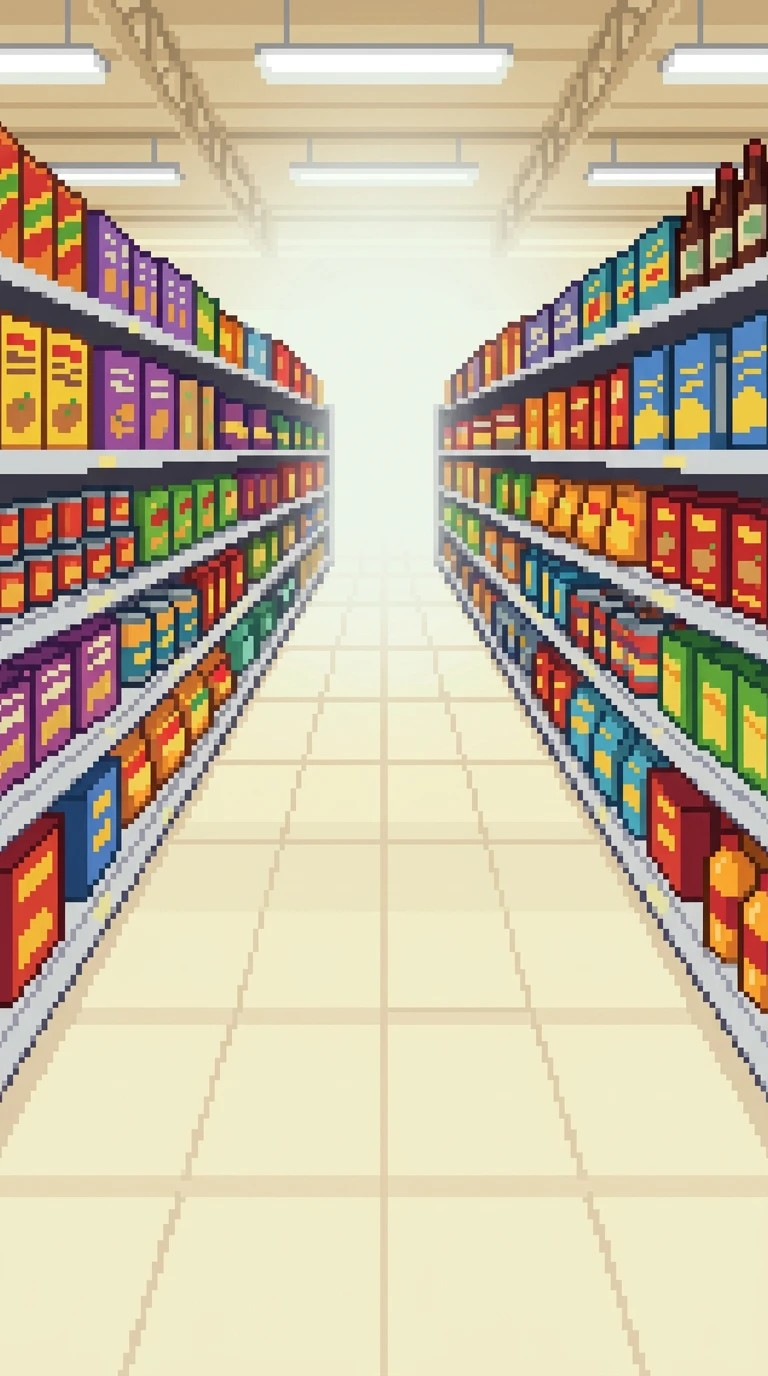
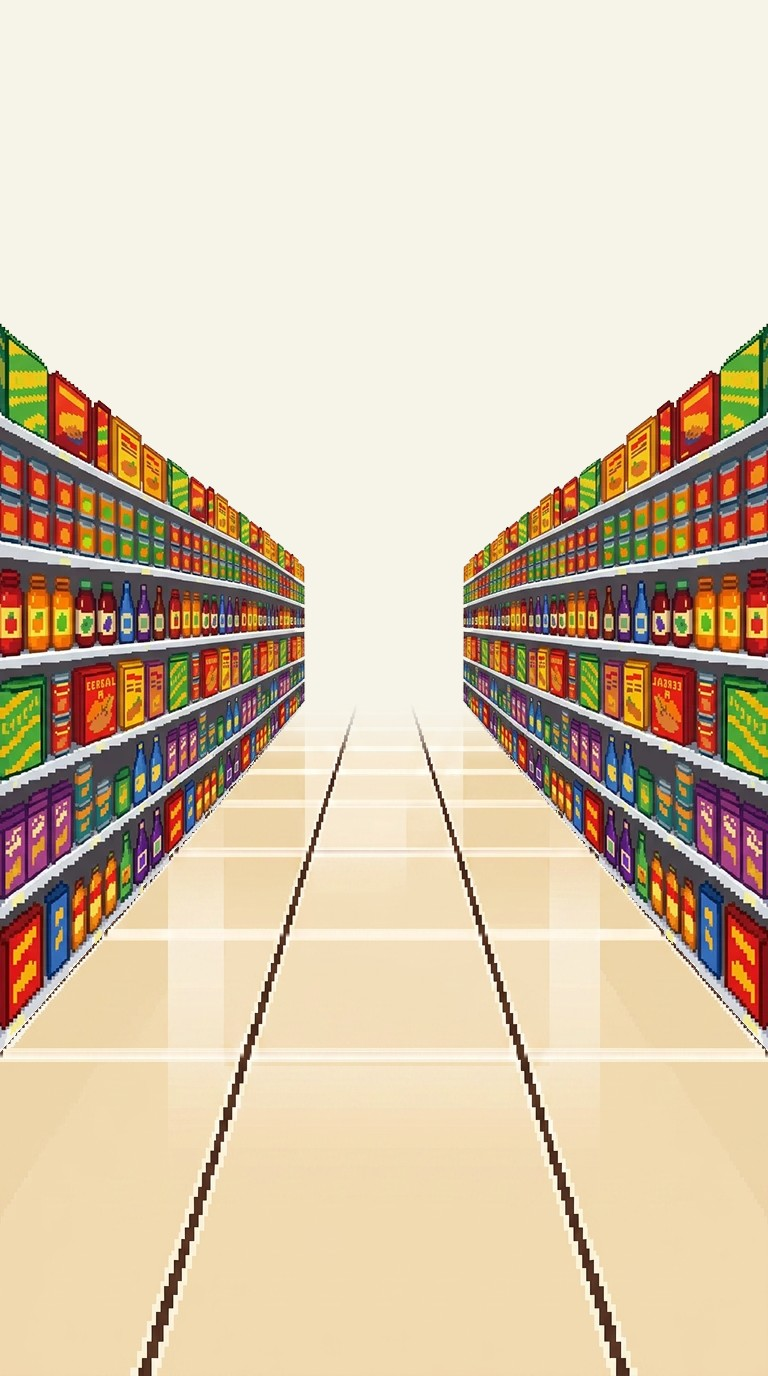
Rebuild the aisle from the tileable floor and shelf plates
Three layers now - floor, shelves over it, cream far end - instead of one
flattened image, and the floor scrolls by a different and better method.

The new floor's tile seams are spaced evenly in depth, which is physically
correct perspective. That rules out the scale-about-the-vanishing-point loop
the previous plate allowed, since that only worked because those seams
happened to be spaced geometrically. So the seams were stripped out of the
art and the game spawns them as travelling entities instead, at 0.30 z units
apart - the plate's own tile spacing measured back into game units. They now
move at exactly the speed everything else does, because they are the same
kind of thing. The painted lane lines stay in the plate and stay put, which
is right: lines running along the aisle do not move as you walk down it.

- Stripped the seams by replacing each band with a blend of the clean rows
  either side, which leaves the vertical lane lines untouched since they sit
  at the same x in the rows being blended in.
- Re-measured the world off the new plate: the vanishing point moved from
  (195, 282.5) to (195, 372.6) and the spread from 0.588 to 0.8635. Z_EXIT
  went to 0.30 so entities still leave below the bottom edge with the
  shallower perspective.
- Rebuilt bg_aisle.jpg from the new plates so the menu screens match.
- Replaced the two-layer scale-scroll and its tests.

Verified in Chromium at 390x844: 44 checks across four suites, including that
[…]

diff --git a/game.js b/game.js
@@ -19,18 +19,18 @@
 
 const STAGE_W = 390, STAGE_H = 844;
 
-// Measured off bg_aisle.jpg after `background-size: cover` into the 390 x 844
-// stage: the shelf bases converge at (195, 282.5), and the aisle's half-width
-// grows by 0.588px for every px below that.
-const HORIZON_Y      = 282.5;
-const AISLE_SPREAD   = 0.588;
+// Measured off the floor plate after `background-size: cover` into the
+// 390 x 844 stage: its lane lines and tile seams converge at (195, 372.6), and
+// the aisle's half-width grows by 0.8635px for every px below that.
+const HORIZON_Y      = 372.6;
+const AISLE_SPREAD   = 0.8635;
 const RUNNER_FEET_Y  = 552;   // his depth; the aisle is ~317px wide here
 const RUNNER_H       = 116;   // so his top edge sits at 436
 const PERSP          = RUNNER_FEET_Y - HORIZON_Y;
 // Three lanes across the aisle at the runner's depth, so the shelves bound them.
 const LANE_X         = Math.round(AISLE_SPREAD * PERSP * 2 / 3);
 const Z_SPAWN        = 4.2;   // just under the vanishing point
-const Z_EXIT         = 0.40;  // past the camera
+const Z_EXIT         = 0.30;  // past the camera, below the bottom edge
 const Z_RUNNER       = 1;
 
 const SPEED_BASE = 2.0;       // z units per second
@@ -66,21 +66,11 @@ const POWERUP_MS   = 6000;
 const OBS_GAP      = [1.7, 2.9];     // z units between obstacles, early
 const OBS_GAP_LATE = [1.25, 2.1];
 const PICKUP_GAP   = [1.1, 2.3];
-const RUNG_GAP     = 0.55;
+const SEAM_GAP     = 0.30;           // the floor plate's own tile spacing, in z
 
 // Sizes are the sprite's size at the runner's depth (z = 1); perspective does the rest.
 // The runner is one file per frame, so a single pose can be redrawn and
 // dropped in on its own. Bump RUNNER_FRAMES if the cycle gains or loses one.
-// The floor plate's tile seams are spaced geometrically below its vanishing
-// point, by this ratio. Scaling the plate by exactly this puts every seam
-// where the next one was, so the loop closes.
-const FLOOR_RATIO = 1.2816;
-// One cycle advances the floor by one tile row, i.e. multiplies depth by
-// FLOOR_RATIO. Entities move through depth linearly, so the two can only agree
-// at one depth; matching them at the runner's own depth puts the tiles under
-// his feet at exactly his speed, which is where the eye judges it.
-const FLOOR_CYCLES_PER_Z = 1 / Math.log(FLOOR_RATIO);
-
 const RUNNER_FRAMES = 8;
 const RUNNER_FRAME_MS = 78;          // ~12.8 fps
 const RUNNER_FRAME_MS_FAST = 52;     // while Tylenol is up
@@ -110,7 +100,7 @@ const CHIP_BAGS = ['chips', 'chipsB', 'chipsG'];
 OBSTACLE_ART.forEach(([n, w, h]) => { SPRITES[n] = { img: n + '.png', w, h }; });
 
 const ASSETS = [
-  'assets/bg_aisle.jpg', 'assets/bg_aisle_floor.png',
+  'assets/bg_aisle.jpg', 'assets/bg_aisle_floor.png', 'assets/bg_aisle_shelves.png',
   'assets/pursuer_run.png',
   'assets/pickup_chips.png', 'assets/pickup_chips_b.png', 'assets/pickup_chips_g.png',
   'assets/chip_drop.png',
@@ -180,7 +170,7 @@ const el = {
   runner: $('runner'), pursuer: $('pursuer'), labelTag: $('labelTag'),
   speedTag: $('speedTag'), vignette: $('vignette'), flash: $('flash'),
   hud: $('hud'), prox: document.querySelector('.prox'), proxFill: $('proxFill'), proxState: $('proxState'),
-  floorA: $('floorA'), floorB: $('floorB'),
+  seams: $('seams'),
   bags: $('bags'), lives: $('lives'), dist: $('dist'), hiSmall: $('hiSmall'),
   delay: $('delay'), delaySecs: $('delaySecs'), delayFill: $('delayFill'),
   pickupFlash: $('pickupFlash'), hints: $('hints'),
@@ -223,7 +213,7 @@ function spawn(kind, opts) {
   } else {
     d.innerHTML = '<i style="background-image:url(assets/' + e.img + ')"></i>';
   }
-  el.world.appendChild(d);
+  (kind === 'rung' ? el.seams : el.world).appendChild(d);
   ents.push(e);
   return e;
 }
@@ -255,7 +245,6 @@ const g = {
   prox: PROX_START, meters: 0, bags: BAGS_START, lost: 0,
   pursuerX: STAGE_W / 2,
   nextObs: 0, nextPickup: 0, nextRung: 0,
-  floorPhase: 0,
   labelAt: 0, labelUntil: 0,
   lives: 0, vaxAt: 0,
   tylAt: 0, powerUntil: 0,
@@ -269,7 +258,7 @@ function resetRun() {
     t: 0, odo: 0, speed: SPEED_BASE, lane: 0, laneX: STAGE_W / 2, invuln: 0,
     prox: PROX_START, meters: 0, bags: BAGS_START, lost: 0, pursuerX: STAGE_W / 2,
     nextObs: 1.2, nextPickup: 2.4, nextRung: 0,
-    floorPhase: 0, labelAt: rand(LABEL_EVERY), labelUntil: 0,
+    labelAt: rand(LABEL_EVERY), labelUntil: 0,
     lives: 0, vaxAt: VAX_FIRST,
     tylAt: TYL_FIRST, powerUntil: 0,
   });
@@ -494,7 +483,6 @@ function step(dt) {
   g.speed = SPEED_BASE + (SPEED_MAX - SPEED_BASE) * Math.min(1, g.t / SPEED_RAMP);
   const eff = g.speed * (power ? 2 : 1);
   g.odo += eff * dt;
-  g.floorPhase = (g.floorPhase + eff * FLOOR_CYCLES_PER_Z * dt) % 1;
   g.meters += eff * dt * METERS_PER_Z;
 
   // ── proximity
@@ -514,8 +502,9 @@ function step(dt) {
 
   // ── scheduled spawns
   if (g.odo >= g.nextRung) {
-    g.nextRung = g.odo + RUNG_GAP;
-    spawn('rung', { w: 300, h: 3, lane: 0 });
+    g.nextRung = g.odo + SEAM_GAP;
+    // Full aisle width at the runner's depth; the perspective does the rest.
+    spawn('rung', { w: AISLE_SPREAD * PERSP * 2, h: 2.2, lane: 0 });
   }
   if (g.odo >= g.nextObs) {
     const gap = g.t > 40 ? OBS_GAP_LATE : OBS_GAP;
@@ -586,18 +575,7 @@ function step(dt) {
   }
 }
 
-// Advance the two floor layers. Phase 0..1 is one tile row.
-function renderFloor(p) {
-  const q = (p + 0.5) % 1;
-  const w = Math.sin(Math.PI * p);
-  el.floorA.style.transform = 'scale(' + Math.pow(FLOOR_RATIO, p).toFixed(4) + ')';
-  el.floorB.style.transform = 'scale(' + Math.pow(FLOOR_RATIO, q).toFixed(4) + ')';
-  el.floorA.style.opacity = (w * w).toFixed(3);
-  el.floorB.style.opacity = (1 - w * w).toFixed(3);
-}
-
 function render(dt) {
-  renderFloor(g.floorPhase);
   // runner — leans into the lane change, which is the only move he has
   const leanX = (STAGE_W / 2 + g.lane * LANE_X) - g.laneX;
   el.runner.style.transform = 'translate(' + (g.laneX - 29).toFixed(1) + 'px, 436px) rotate(' +
@@ -720,7 +698,6 @@ function preload() {
 }
 
 function ready() {
-  renderFloor(0);
   if (document.fonts && document.fonts.ready) document.fonts.ready.then(fit);
   toTitle();
   raf = requestAnimationFrame(frame);

diff --git a/styles.css b/styles.css
@@ -92,10 +92,19 @@ body.framed #bezel {
 
 #field { position: absolute; inset: 0; overflow: hidden; }
 
+/* The aisle in three layers: the lit far end, the floor with its lane lines,
+   and the shelving over the top. The floor's transverse seams were stripped
+   out of the art — they are spawned as travelling entities instead, so they
+   move at exactly the speed everything else does. */
 #floor {
-  position: absolute;
-  inset: 0;
-  background: var(--tunnel-dark) url('assets/bg_aisle.jpg') center / cover no-repeat;
+  position: absolute; inset: 0;
+  background: #F6F3E8 url('assets/bg_aisle_floor.png') center / cover no-repeat;
+}
+#seams { position: absolute; inset: 0; }
+#shelves {
+  position: absolute; inset: 0;
+  background: url('assets/bg_aisle_shelves.png') center / cover no-repeat;
+  pointer-events: none;
 }
 
 /* The aisle is bright at the far end and pale underfoot, so the chrome needs
@@ -111,28 +120,16 @@ body.framed #bezel {
   background: linear-gradient(0deg, rgba(8, 10, 14, .78), rgba(8, 10, 14, 0));
 }
 
-/* The scrolling floor. Two copies of the same plate, half a cycle apart,
-   each scaled about the floor's own vanishing point. Scaling about that point
-   leaves every line through it — the lane lines — exactly where it is, and
-   marches the transverse tile seams toward the camera, which is precisely what
-   moving down the aisle looks like. Their opacities are sin^2 and cos^2 of the
-   same phase, so they sum to 1 and each one is invisible at the moment it
-   jumps back. */
-.floor-scroll {
-  position: absolute; inset: 0;
-  background: url('assets/bg_aisle_floor.png') center / cover no-repeat;
-  transform-origin: 194px 297px;
-  will-change: transform, opacity;
-}
-
 #world { position: absolute; inset: 0; }
 
 /* Travelling entities: sized at their runner-depth size, scaled by perspective. */
 .ent { position: absolute; left: 0; top: 0; transform-origin: bottom center; will-change: transform; }
 .ent > i { display: block; width: 100%; height: 100%; background: center / contain no-repeat; image-rendering: pixelated; }
 .ent.pickup > i { animation: bob 1s ease-in-out infinite; }
-/* Floor seams rushing past — the only thing selling speed on a static plate. */
-.ent.rung { background: linear-gradient(90deg, rgba(74,58,36,0), rgba(74,58,36,.34), rgba(74,58,36,0)); }
+/* Tile seams, spawned at the plate's own spacing and travelling with everything
+   else. Sampled from the art: darker at the far end, warmer up close. */
+.ent.rung { background: linear-gradient(90deg, rgba(83,50,35,.12), rgba(61,32,17,.58) 12%,
+                                              rgba(61,32,17,.58) 88%, rgba(83,50,35,.12)); }
 
 /* Pickups: the bag you want, and the booster that buys you six seconds. */
 .ent.vax > i, .ent.tyl > i { animation: bob .8s ease-in-out infinite; }
@@ -261,7 +258,7 @@ body.framed #bezel {
 
 /* ────────────────────────────────────────────── 2c · caught */
 
-#caught { background: var(--tunnel-dark) url('assets/bg_aisle.jpg') center / cover no-repeat; }
+#caught { background: #F6F3E8 url('assets/bg_aisle.jpg') center / cover no-repeat; }
 .caught-wash { position: absolute; inset: 0; background: linear-gradient(180deg, rgba(38, 22, 22, .93), rgba(8, 6, 8, .96)); }
 .caught-rule { position: absolute; left: 0; right: 0; top: 0; height: 5px; background: var(--red); }
 

diff --git a/index.html b/index.html
@@ -26,8 +26,8 @@
     <!-- ── The tunnel: background plate, travelling entities, the two runners ── -->
     <div id="field">
       <div id="floor"></div>
-      <div id="floorA" class="floor-scroll"></div>
-      <div id="floorB" class="floor-scroll"></div>
+      <div id="seams"></div>
+      <div id="shelves"></div>
       <div id="scrimTop"></div>
       <div id="scrimBottom"></div>
       <div id="world"></div>

diff --git a/ART-BRIEF.md b/ART-BRIEF.md
@@ -30,23 +30,31 @@ the runner stands. Replacing the plate means re-measuring both.
 The plate is bright at the far end and pale underfoot, so the HUD sits on
 scrims (`#scrimTop`, `#scrimBottom`) rather than directly on the art.
 
-`assets/bg_aisle_floor.png` is the floor on its own, with alpha, on the same
-canvas. It is the layer that scrolls. Its transverse tile seams are spaced
-**geometrically** below its vanishing point — each seam sits `FLOOR_RATIO`
-(1.2816) further out than the last — which is what makes the loop possible:
-scaling the plate by exactly that ratio puts every seam where the next one
-was. Scaling about the vanishing point also leaves every line *through* that
-point untouched, so the lane lines stay put while only the seams move, which
-is exactly what walking down an aisle looks like.
+The aisle is drawn in three layers, all on the same 768 x 1376 canvas and all
+`background-size: cover`:
 
-Two copies run half a cycle apart with `sin²`/`cos²` opacities, so they sum to
-1 and whichever layer is about to jump is invisible when it does. Its top edge
-was feathered over 70px so the far end dissolves into the plate underneath
-rather than showing a moving boundary.
+| File | What it is |
+| --- | --- |
+| `assets/bg_aisle_floor.png` | the floor, with its two painted lane lines |
+| `assets/bg_aisle_shelves.png` | the shelving down both sides, over the floor |
+| `assets/bg_aisle.jpg` | the two flattened onto cream, for the menu screens |
 
-If this art is regenerated, keep the seams geometric and re-measure the ratio.
-Evenly spaced seams — what a real tiled floor would have — cannot loop this
-way.
+The floor plate's tile seams are spaced **evenly in depth** — physically
+correct perspective. That means the plate cannot be looped by scaling it (an
+earlier version of this art happened to be spaced geometrically, which could).
+So the seams were stripped out of the art, and the game spawns them as
+travelling entities instead, every `SEAM_GAP` (0.30) z units, which is the
+plate's own tile spacing measured back into game units. They then move at
+exactly the speed everything else does, because they *are* everything else.
+
+The painted lane lines stay in the plate and never move, which is correct:
+lines running down the aisle do not move as you walk along it. Only the
+transverse seams do.
+
+**If this art is regenerated:** re-measure the vanishing point and the spread
+(`HORIZON_Y` and `AISLE_SPREAD` in `game.js`), and leave the transverse seams
+out of the floor plate entirely — the game draws them. Seam spacing no longer
+constrains anything.
 
 ## The runner: one file per frame
 

diff --git a/README.md b/README.md
@@ -23,9 +23,10 @@ python3 -m http.server 8000     # then open http://localhost:8000
 - **Three lanes, and nothing else.** Changing lane is the only move. The
   runner sits at a fixed depth; everything else travels toward the camera on
   the lane it spawned in.
-- **The floor scrolls.** Two copies of the floor plate scale about its
-  vanishing point, half a cycle apart, so the tile seams march toward the
-  camera at the runner's own speed while the lane lines stay fixed.
+- **The floor scrolls.** Its tile seams are spawned as travelling entities at
+  the plate's own spacing, so they move at exactly the speed everything else
+  does. The painted lane lines stay fixed, which is what running down an aisle
+  looks like.
 - **Bags** are the score you carry. Loose bags on the floor add three each.
 - **Recalled food** — 54 types — costs you about a quarter of your armful and
   lets him close. Change lane or wear it.
